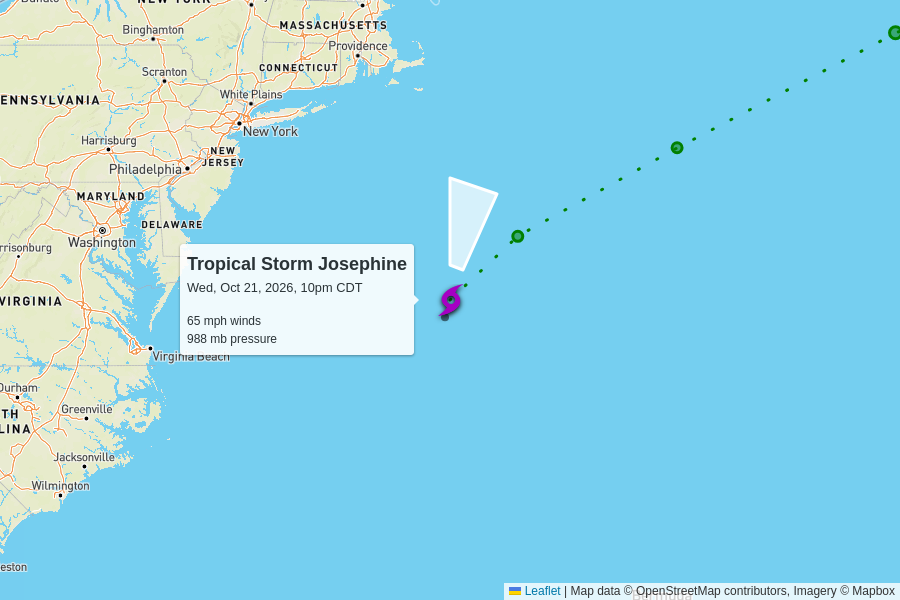
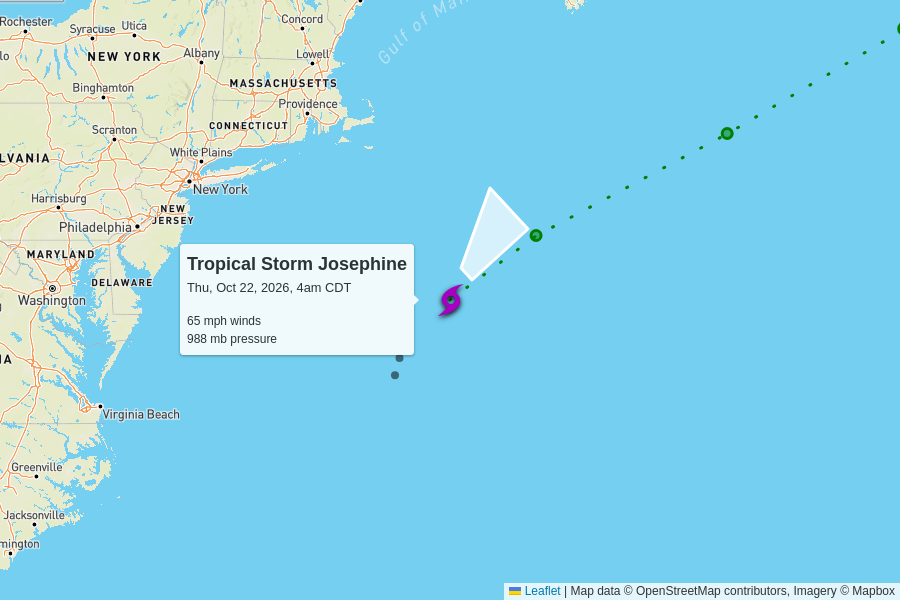
automatic update

diff --git a/docs/2026.html b/docs/2026.html
@@ -45,13 +45,13 @@
       <div class="grid-container">
           <div class="grid-row">
             <script type="text/json" id="storm_data_AL102026">
-              {"pressure":[{"timestamp":"2026-10-21T21:00:00.000Z","value":990},{"timestamp":"2026-10-22T03:00:00.000Z","value":988}],"wind":[{"timestamp":"2026-10-21T21:00:00.000Z","value":65},{"timestamp":"2026-10-22T03:00:00.000Z","value":65}]}
+              {"pressure":[{"timestamp":"2026-10-21T21:00:00.000Z","value":990},{"timestamp":"2026-10-22T03:00:00.000Z","value":988},{"timestamp":"2026-10-22T09:00:00.000Z","value":988}],"wind":[{"timestamp":"2026-10-21T21:00:00.000Z","value":65},{"timestamp":"2026-10-22T03:00:00.000Z","value":65},{"timestamp":"2026-10-22T09:00:00.000Z","value":65}]}
             </script>              <div class="grid-container storm">
                 <div class="grid-row " onClick="toggle('storm_AL102026')">
                   <h2>
                     Tropical Storm Josephine
                     <div class="updated">
-                      last updated <time datetime="2026-10-22T03:00:00.000Z">2026-10-22T03:00:00.000Z</time>
+                      last updated <time datetime="2026-10-22T09:00:00.000Z">2026-10-22T09:00:00.000Z</time>
                     </div>
                   </h2>
                 </div>
@@ -74,12 +74,12 @@
                         <td>
                           988 mb
                           <br>
-                          -2 mb since last update
+                          0 mb since last update
                         </td>
                         <td>
-                          6 mph to the north-northeast
+                          13 mph to the northeast
                           <br>
-                          <span style="display: inline-block; font-size: 1.5em; transform: rotate(15deg);">↑</span>
+                          <span style="display: inline-block; font-size: 1.5em; transform: rotate(40deg);">↑</span>
                         </td>
                         <td>
                           <a href="https://raw.githubusercontent.com/mgwalker/atlantic-hurricanes/main/data/csv/AL102026.csv">AL102026.csv</a>

diff --git a/docs/index.html b/docs/index.html
@@ -45,13 +45,13 @@
       <div class="grid-container">
           <div class="grid-row">
             <script type="text/json" id="storm_data_AL102026">
-              {"pressure":[{"timestamp":"2026-10-21T21:00:00.000Z","value":990},{"timestamp":"2026-10-22T03:00:00.000Z","value":988}],"wind":[{"timestamp":"2026-10-21T21:00:00.000Z","value":65},{"timestamp":"2026-10-22T03:00:00.000Z","value":65}]}
+              {"pressure":[{"timestamp":"2026-10-21T21:00:00.000Z","value":990},{"timestamp":"2026-10-22T03:00:00.000Z","value":988},{"timestamp":"2026-10-22T09:00:00.000Z","value":988}],"wind":[{"timestamp":"2026-10-21T21:00:00.000Z","value":65},{"timestamp":"2026-10-22T03:00:00.000Z","value":65},{"timestamp":"2026-10-22T09:00:00.000Z","value":65}]}
             </script>              <div class="grid-container storm">
                 <div class="grid-row " onClick="toggle('storm_AL102026')">
                   <h2>
                     Tropical Storm Josephine
                     <div class="updated">
-                      last updated <time datetime="2026-10-22T03:00:00.000Z">2026-10-22T03:00:00.000Z</time>
+                      last updated <time datetime="2026-10-22T09:00:00.000Z">2026-10-22T09:00:00.000Z</time>
                     </div>
                   </h2>
                 </div>
@@ -74,12 +74,12 @@
                         <td>
                           988 mb
                           <br>
-                          -2 mb since last update
+                          0 mb since last update
                         </td>
                         <td>
-                          6 mph to the north-northeast
+                          13 mph to the northeast
                           <br>
-                          <span style="display: inline-block; font-size: 1.5em; transform: rotate(15deg);">↑</span>
+                          <span style="display: inline-block; font-size: 1.5em; transform: rotate(40deg);">↑</span>
                         </td>
                         <td>
                           <a href="https://raw.githubusercontent.com/mgwalker/atlantic-hurricanes/main/data/csv/AL102026.csv">AL102026.csv</a>
